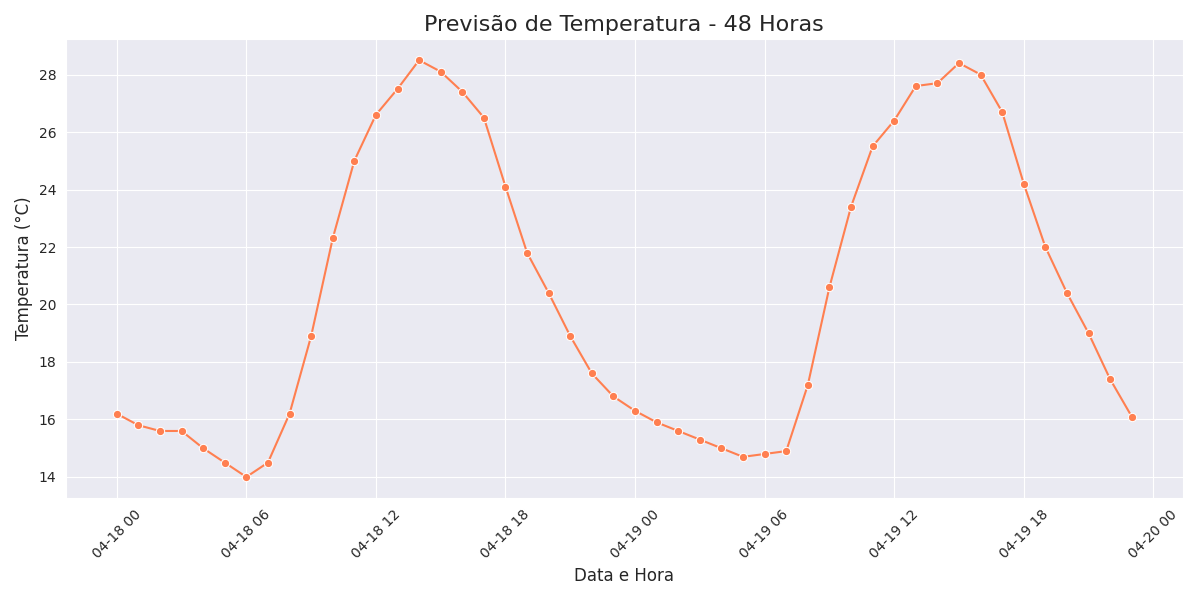
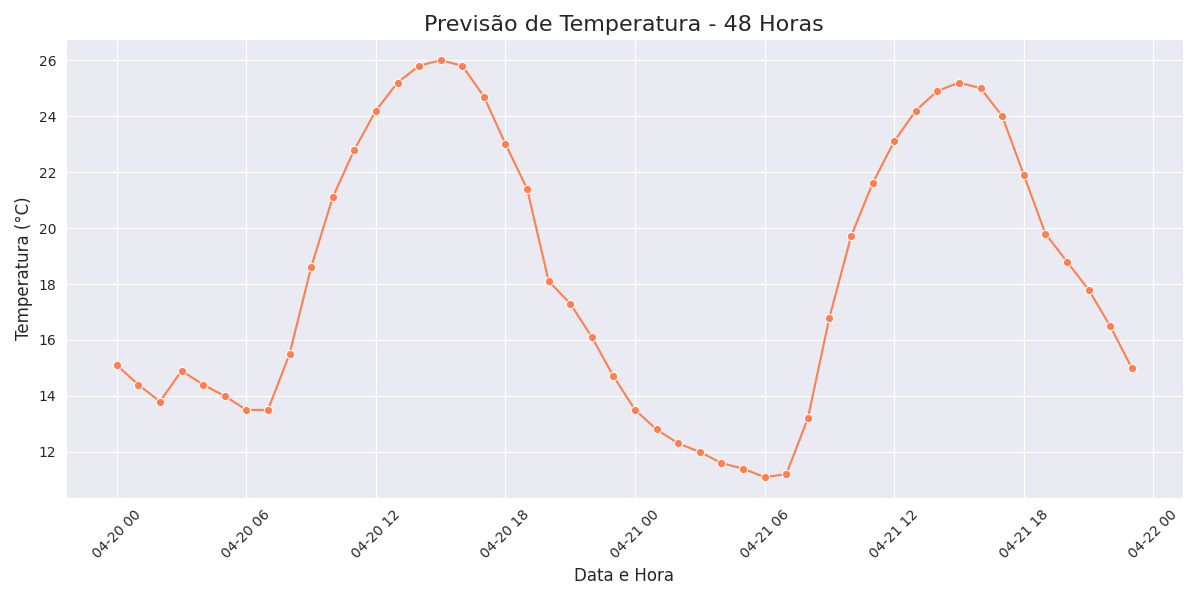
Retirando alguns prints desnecessários

diff --git a/Exercicios_EBAC/Exercicio_um/analise_clima.py b/Exercicios_EBAC/Exercicio_um/analise_clima.py
@@ -14,7 +14,10 @@ def get_climate_data(lat, lon):
         'latitude': lat,
         'longitude': lon,
         'hourly': 'temperature_2m',
-        'timezone':'auto'
+        'timezone':'America/Sao_Paulo',
+        'past_days':0,
+        'forecast_days': 3
+        
     }
     
     try:
